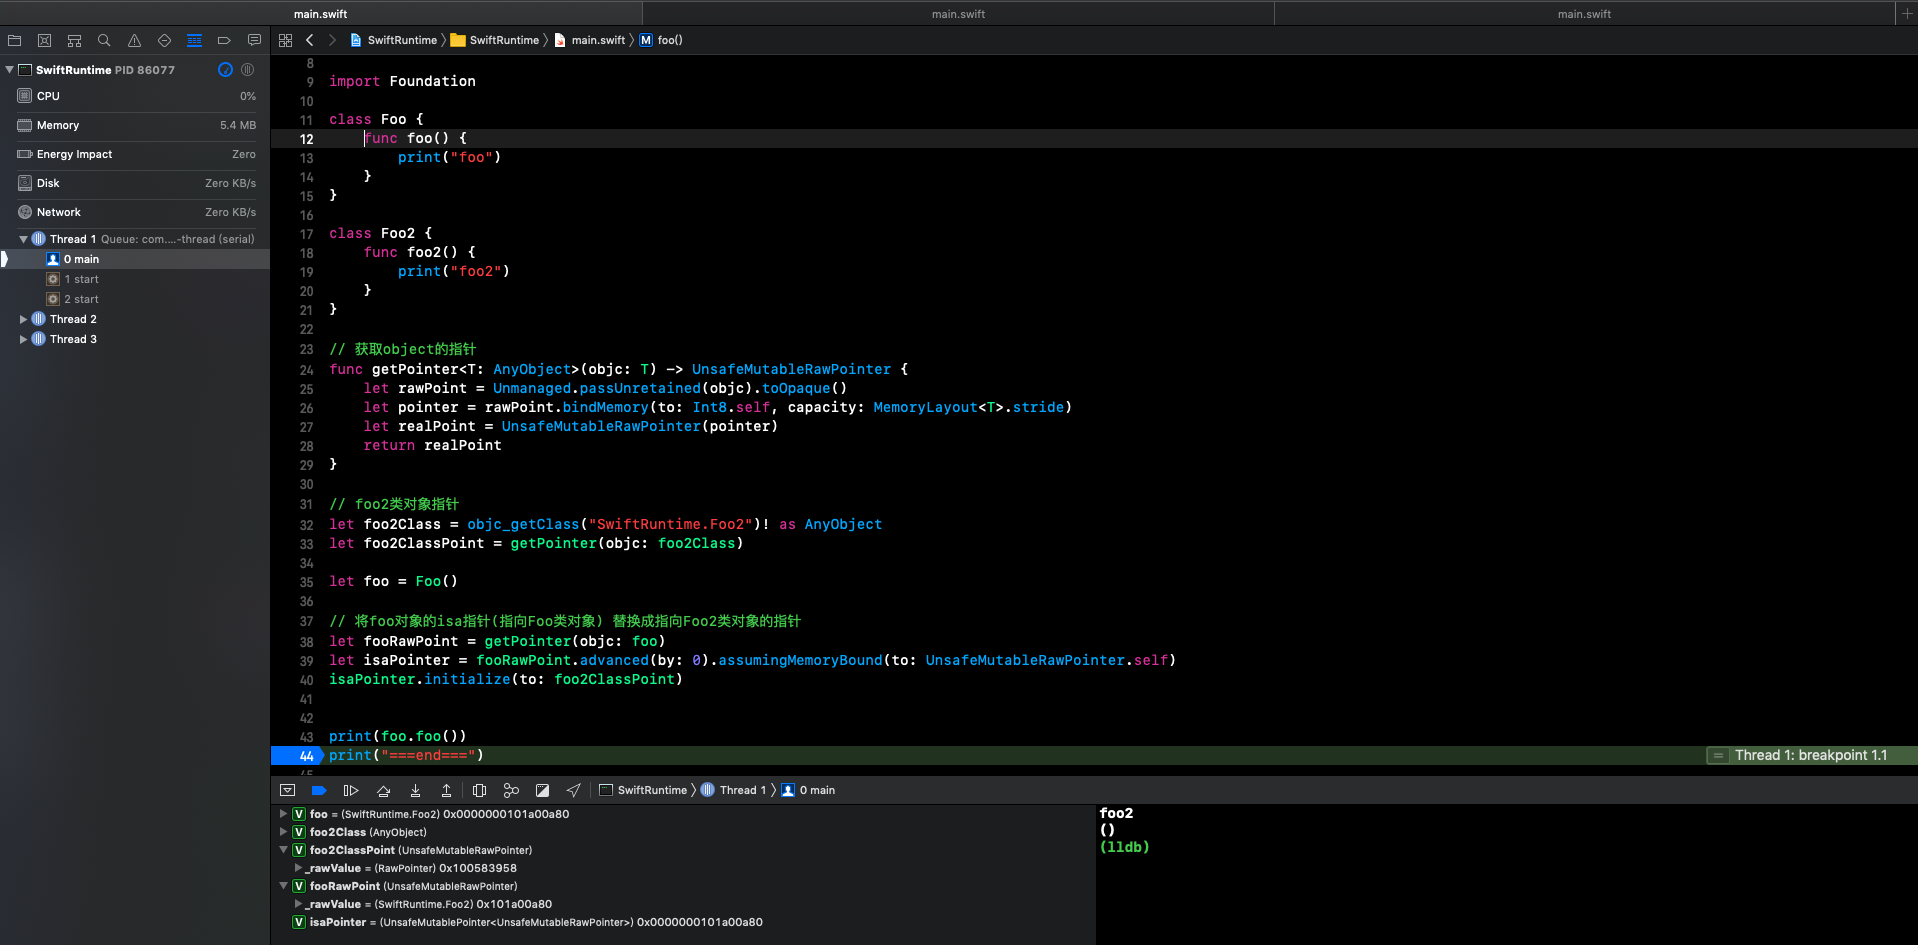
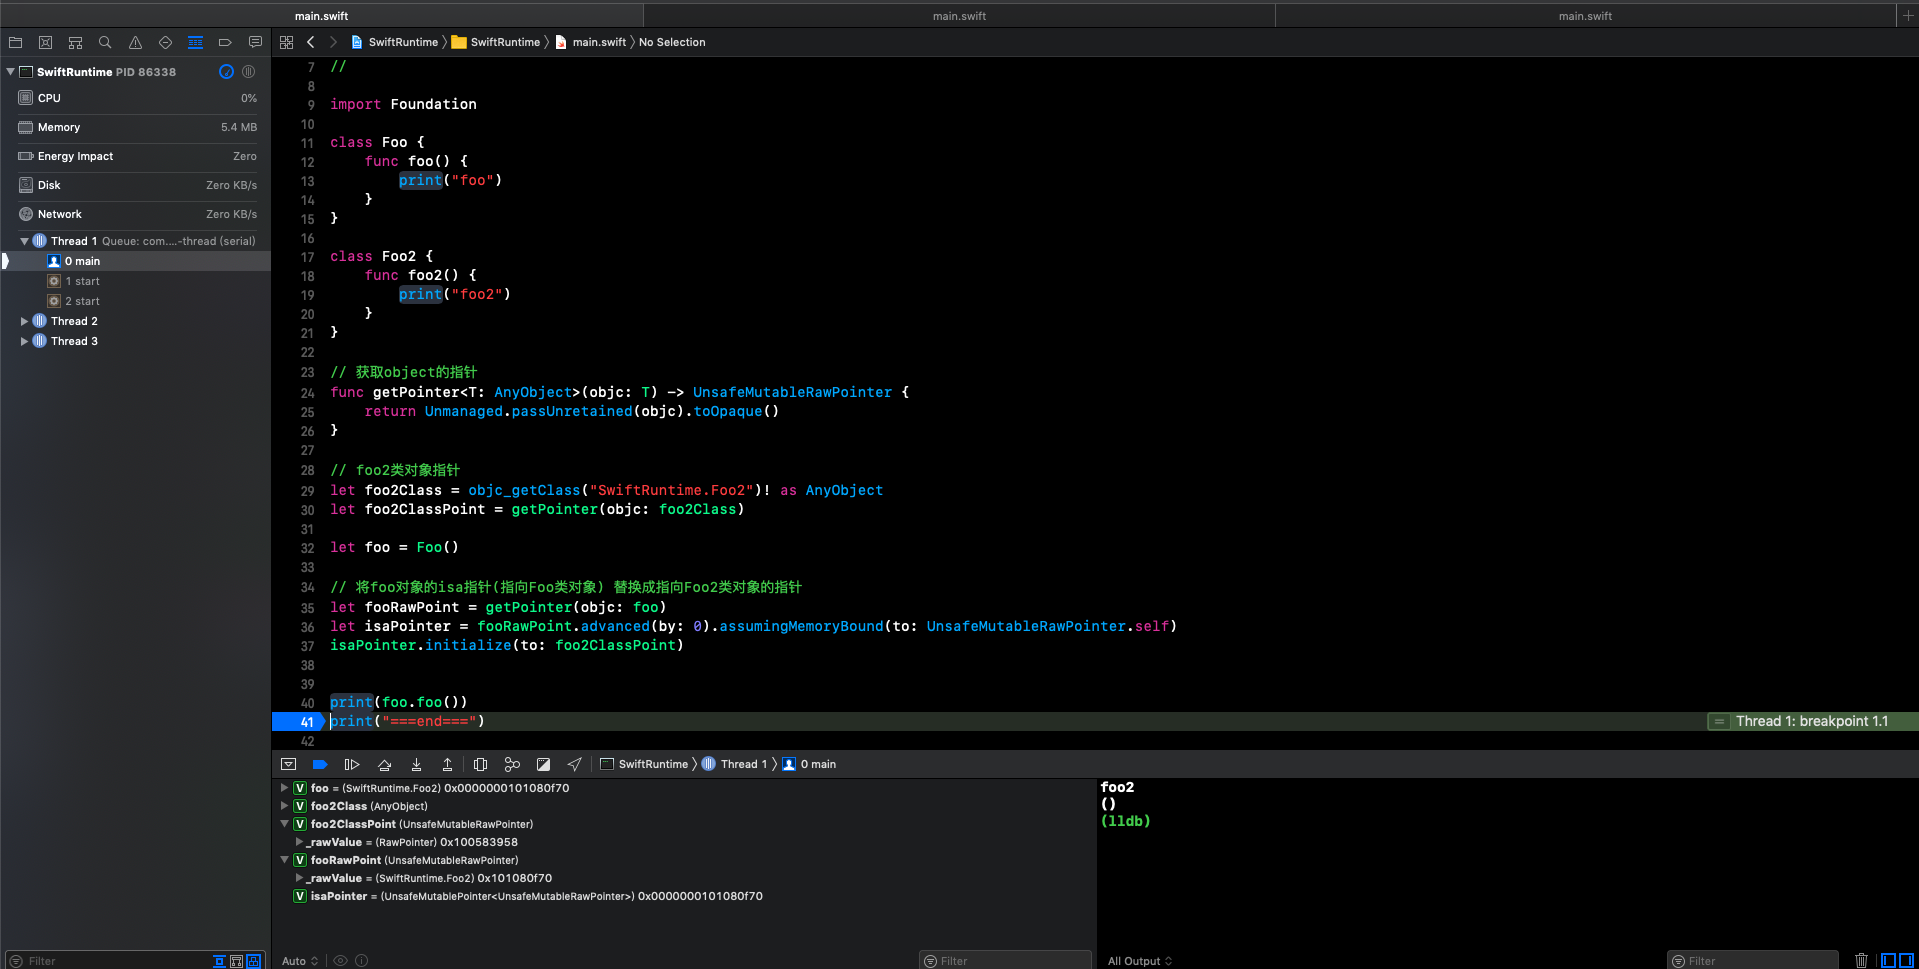
Site updated: 2018-12-28 15:36:34

diff --git a/2018/12/27/Swift内存布局/index.html b/2018/12/27/Swift内存布局/index.html
@@ -102,7 +102,7 @@
 <meta property="og:image" content="http://yoursite.com/images/Swift_memoryLayout/associative1.png">
 <meta property="og:image" content="http://yoursite.com/images/Swift_memoryLayout/associative2.png">
 <meta property="og:image" content="http://yoursite.com/images/Swift_memoryLayout/isa_exchange.png">
-<meta property="og:updated_time" content="2018-12-28T07:28:03.120Z">
+<meta property="og:updated_time" content="2018-12-28T07:35:15.807Z">
 <meta name="twitter:card" content="summary">
 <meta name="twitter:title" content="Swift内存布局">
 <meta name="twitter:description" content="参考链接1参考链接2 ClassSwift中的Class在内存中其实就是一个Objective-C的Class,也就是说Swift的Class和Objective-C的Class一样也是runtime的机制的一部分，即Swift中的Class的也是一个对象(类对象，和Objective-C一样)。">
@@ -394,7 +394,7 @@
 <hr>
 <h5 id="列些骚操作的例子"><a href="#列些骚操作的例子" class="headerlink" title="列些骚操作的例子"></a>列些骚操作的例子</h5><p><strong>1.将某个实例a的isa指针替换成另一个类，再调用a的方法</strong></p>
 <p>// 测试代码</p>
-<figure class="highlight swift"><table><tr><td class="gutter"><pre><span class="line">1</span><br><span class="line">2</span><br><span class="line">3</span><br><span class="line">4</span><br><span class="line">5</span><br><span class="line">6</span><br><span class="line">7</span><br><span class="line">8</span><br><span class="line">9</span><br><span class="line">10</span><br><span class="line">11</span><br><span class="line">12</span><br><span class="line">13</span><br><span class="line">14</span><br><span class="line">15</span><br><span class="line">16</span><br><span class="line">17</span><br><span class="line">18</span><br><span class="line">19</span><br><span class="line">20</span><br><span class="line">21</span><br><span class="line">22</span><br><span class="line">23</span><br><span class="line">24</span><br><span class="line">25</span><br><span class="line">26</span><br><span class="line">27</span><br><span class="line">28</span><br><span class="line">29</span><br><span class="line">30</span><br><span class="line">31</span><br><span class="line">32</span><br><span class="line">33</span><br><span class="line">34</span><br></pre></td><td class="code"><pre><span class="line"><span class="class"><span class="keyword">class</span> <span class="title">Foo</span> </span>&#123;</span><br><span class="line">    <span class="function"><span class="keyword">func</span> <span class="title">foo</span><span class="params">()</span></span> &#123;</span><br><span class="line">        <span class="built_in">print</span>(<span class="string">"foo"</span>)</span><br><span class="line">    &#125;</span><br><span class="line">&#125;</span><br><span class="line"></span><br><span class="line"><span class="class"><span class="keyword">class</span> <span class="title">Foo2</span> </span>&#123;</span><br><span class="line">    <span class="function"><span class="keyword">func</span> <span class="title">foo2</span><span class="params">()</span></span> &#123;</span><br><span class="line">        <span class="built_in">print</span>(<span class="string">"foo2"</span>)</span><br><span class="line">    &#125;</span><br><span class="line">&#125;</span><br><span class="line"></span><br><span class="line"><span class="comment">// 获取object的指针</span></span><br><span class="line"><span class="function"><span class="keyword">func</span> <span class="title">getPointer</span>&lt;T: AnyObject&gt;<span class="params">(objc: T)</span></span> -&gt; <span class="type">UnsafeMutableRawPointer</span> &#123;</span><br><span class="line">    <span class="keyword">let</span> rawPoint = <span class="type">Unmanaged</span>.passUnretained(objc).toOpaque()</span><br><span class="line">    <span class="keyword">let</span> pointer = rawPoint.bindMemory(to: <span class="type">Int8</span>.<span class="keyword">self</span>, capacity: <span class="type">MemoryLayout</span>&lt;<span class="type">T</span>&gt;.<span class="built_in">stride</span>)</span><br><span class="line">    <span class="keyword">let</span> realPoint = <span class="type">UnsafeMutableRawPointer</span>(pointer)</span><br><span class="line">    <span class="keyword">return</span> realPoint</span><br><span class="line">&#125;</span><br><span class="line"></span><br><span class="line"><span class="comment">// foo2类对象指针</span></span><br><span class="line"><span class="keyword">let</span> foo2Class = objc_getClass(<span class="string">"SwiftRuntime.Foo2"</span>)! <span class="keyword">as</span> <span class="type">AnyObject</span></span><br><span class="line"><span class="keyword">let</span> foo2ClassPoint = getPointer(objc: foo2Class)</span><br><span class="line"></span><br><span class="line"><span class="keyword">let</span> foo = <span class="type">Foo</span>()</span><br><span class="line"></span><br><span class="line"><span class="comment">// 将foo对象的isa指针(指向Foo类对象) 替换成指向Foo2类对象的指针</span></span><br><span class="line"><span class="keyword">let</span> fooRawPoint = getPointer(objc: foo)</span><br><span class="line"><span class="keyword">let</span> isaPointer = fooRawPoint.advanced(by: <span class="number">0</span>).assumingMemoryBound(to: <span class="type">UnsafeMutableRawPointer</span>.<span class="keyword">self</span>)</span><br><span class="line">isaPointer.initialize(to: foo2ClassPoint)</span><br><span class="line"></span><br><span class="line"></span><br><span class="line"><span class="built_in">print</span>(foo.foo())   <span class="comment">// 打印出来的是foo2😎 </span></span><br><span class="line"><span class="built_in">print</span>(<span class="string">"===end==="</span>)</span><br></pre></td></tr></table></figure>
+<figure class="highlight swift"><table><tr><td class="gutter"><pre><span class="line">1</span><br><span class="line">2</span><br><span class="line">3</span><br><span class="line">4</span><br><span class="line">5</span><br><span class="line">6</span><br><span class="line">7</span><br><span class="line">8</span><br><span class="line">9</span><br><span class="line">10</span><br><span class="line">11</span><br><span class="line">12</span><br><span class="line">13</span><br><span class="line">14</span><br><span class="line">15</span><br><span class="line">16</span><br><span class="line">17</span><br><span class="line">18</span><br><span class="line">19</span><br><span class="line">20</span><br><span class="line">21</span><br><span class="line">22</span><br><span class="line">23</span><br><span class="line">24</span><br><span class="line">25</span><br><span class="line">26</span><br><span class="line">27</span><br><span class="line">28</span><br><span class="line">29</span><br><span class="line">30</span><br><span class="line">31</span><br></pre></td><td class="code"><pre><span class="line"><span class="class"><span class="keyword">class</span> <span class="title">Foo</span> </span>&#123;</span><br><span class="line">    <span class="function"><span class="keyword">func</span> <span class="title">foo</span><span class="params">()</span></span> &#123;</span><br><span class="line">        <span class="built_in">print</span>(<span class="string">"foo"</span>)</span><br><span class="line">    &#125;</span><br><span class="line">&#125;</span><br><span class="line"></span><br><span class="line"><span class="class"><span class="keyword">class</span> <span class="title">Foo2</span> </span>&#123;</span><br><span class="line">    <span class="function"><span class="keyword">func</span> <span class="title">foo2</span><span class="params">()</span></span> &#123;</span><br><span class="line">        <span class="built_in">print</span>(<span class="string">"foo2"</span>)</span><br><span class="line">    &#125;</span><br><span class="line">&#125;</span><br><span class="line"></span><br><span class="line"><span class="comment">// 获取object的指针</span></span><br><span class="line"><span class="function"><span class="keyword">func</span> <span class="title">getPointer</span>&lt;T: AnyObject&gt;<span class="params">(objc: T)</span></span> -&gt; <span class="type">UnsafeMutableRawPointer</span> &#123;</span><br><span class="line">    <span class="keyword">return</span> <span class="type">Unmanaged</span>.passUnretained(objc).toOpaque()</span><br><span class="line">&#125;</span><br><span class="line"></span><br><span class="line"><span class="comment">// foo2类对象指针</span></span><br><span class="line"><span class="keyword">let</span> foo2Class = objc_getClass(<span class="string">"SwiftRuntime.Foo2"</span>)! <span class="keyword">as</span> <span class="type">AnyObject</span></span><br><span class="line"><span class="keyword">let</span> foo2ClassPoint = getPointer(objc: foo2Class)</span><br><span class="line"></span><br><span class="line"><span class="keyword">let</span> foo = <span class="type">Foo</span>()</span><br><span class="line"></span><br><span class="line"><span class="comment">// 将foo对象的isa指针(指向Foo类对象) 替换成指向Foo2类对象的指针</span></span><br><span class="line"><span class="keyword">let</span> fooRawPoint = getPointer(objc: foo)</span><br><span class="line"><span class="keyword">let</span> isaPointer = fooRawPoint.advanced(by: <span class="number">0</span>).assumingMemoryBound(to: <span class="type">UnsafeMutableRawPointer</span>.<span class="keyword">self</span>)</span><br><span class="line">isaPointer.initialize(to: foo2ClassPoint)</span><br><span class="line"></span><br><span class="line"></span><br><span class="line"><span class="built_in">print</span>(foo.foo())   <span class="comment">// 打印出来的是foo2😎 </span></span><br><span class="line"><span class="built_in">print</span>(<span class="string">"===end==="</span>)</span><br></pre></td></tr></table></figure>
 <p> 运行结果图<br> <img src="\images\Swift_memoryLayout\isa_exchange.png" alt="">    </p>
 <h3 id="Struct"><a href="#Struct" class="headerlink" title="Struct"></a>Struct</h3>
       

diff --git a/css/main.css b/css/main.css
@@ -1822,7 +1822,7 @@ pre .javascript .function {
   width: 4px;
   height: 4px;
   border-radius: 50%;
-  background: #ff53af;
+  background: #710eff;
 }
 .links-of-blogroll {
   font-size: 13px;
